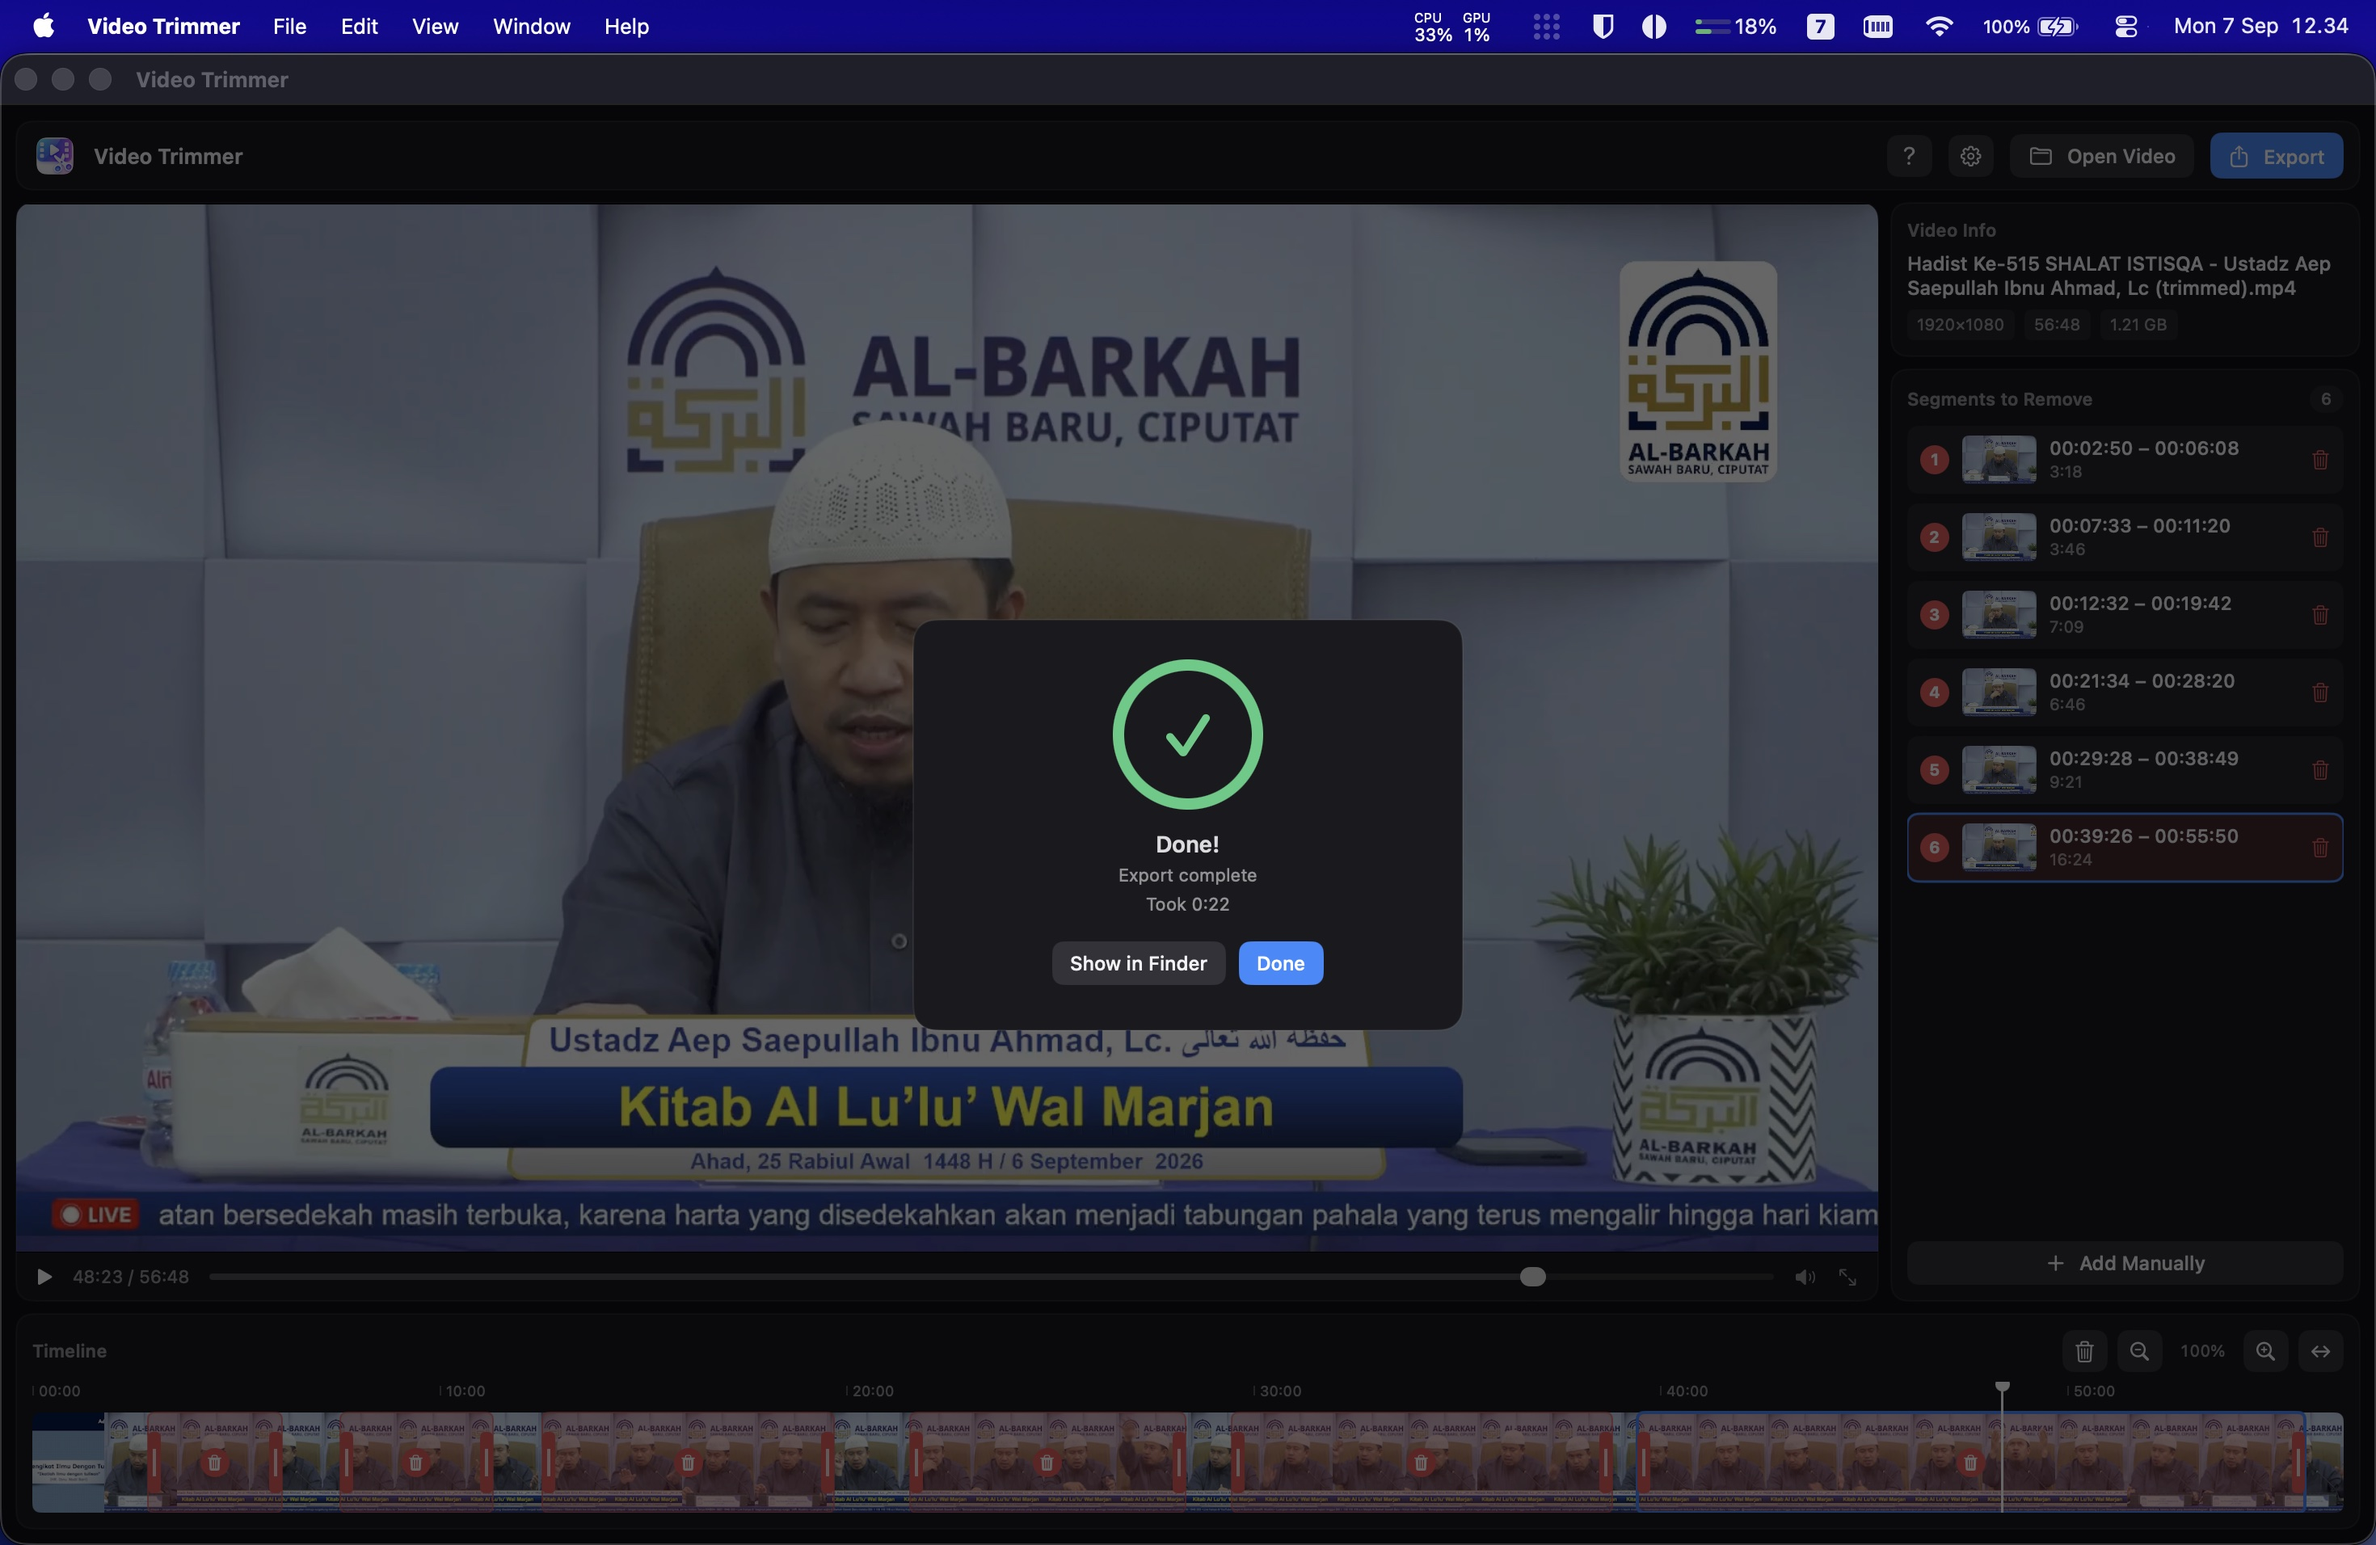
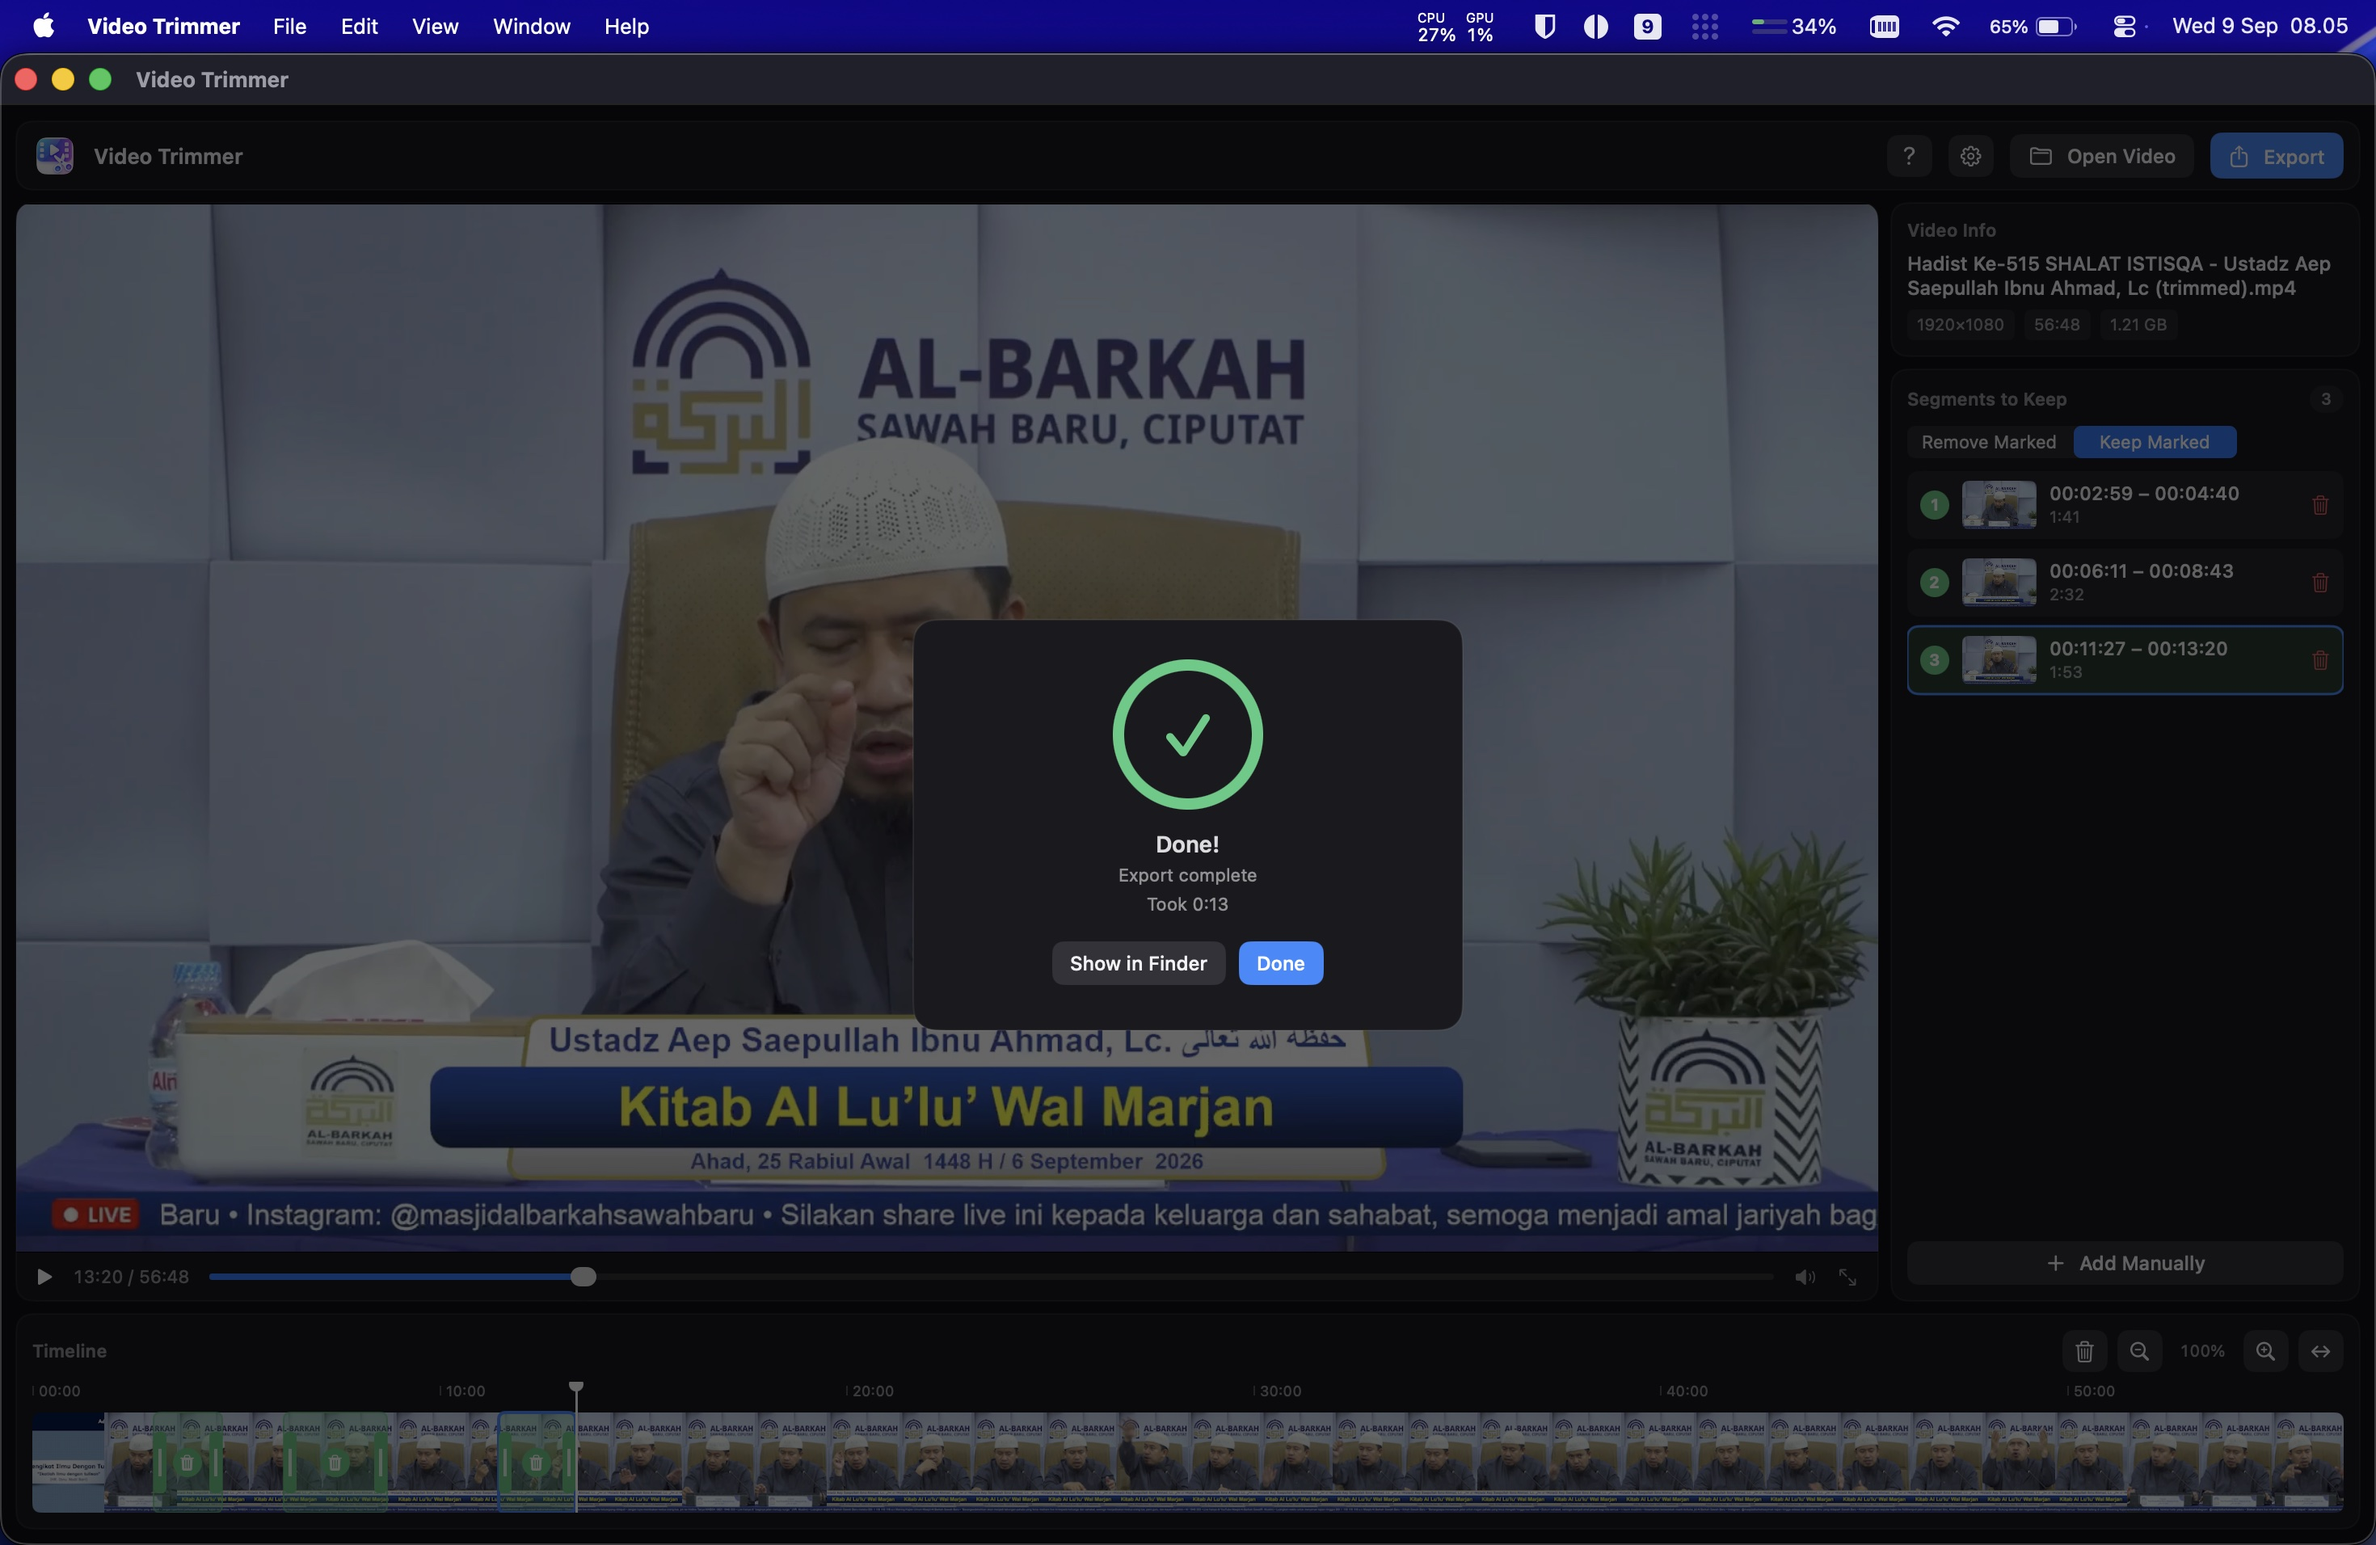
docs: refresh the screenshots for 1.1.0
All five were taken before the mode switch existed, so the segment panel in them
no longer matched the app. The main window is now shown twice — the same three
marks read as Remove and as Keep — since that contrast is the point of the
release, and the export dialog picks up the split toggle.

diff --git a/README.md b/README.md
@@ -19,11 +19,17 @@
 ## Screenshots
 
 <p align="center">
-  <img src="Resources/screenshots/main-window.jpg" width="49%" alt="Timeline with removed segments marked">
-  <img src="Resources/screenshots/export-options.jpg" width="49%" alt="Export dialog with resolution choices">
+  <img src="Resources/screenshots/main-window.jpg" width="49%" alt="Remove Marked mode, with three marked stretches shown in red">
+  <img src="Resources/screenshots/keep-mode.jpg" width="49%" alt="Keep Marked mode, with the same three stretches shown in green">
+</p>
+
+<p align="center"><em>The same three marks read both ways — red is cut out, green is what survives.</em></p>
+
+<p align="center">
+  <img src="Resources/screenshots/export-options.jpg" width="49%" alt="Export dialog with resolution choices and the split toggle">
+  <img src="Resources/screenshots/export-progress.jpg" width="49%" alt="Export progress overlay">
 </p>
 <p align="center">
-  <img src="Resources/screenshots/export-progress.jpg" width="49%" alt="Export progress overlay">
   <img src="Resources/screenshots/export-done.jpg" width="49%" alt="Export complete dialog">
 </p>
 
